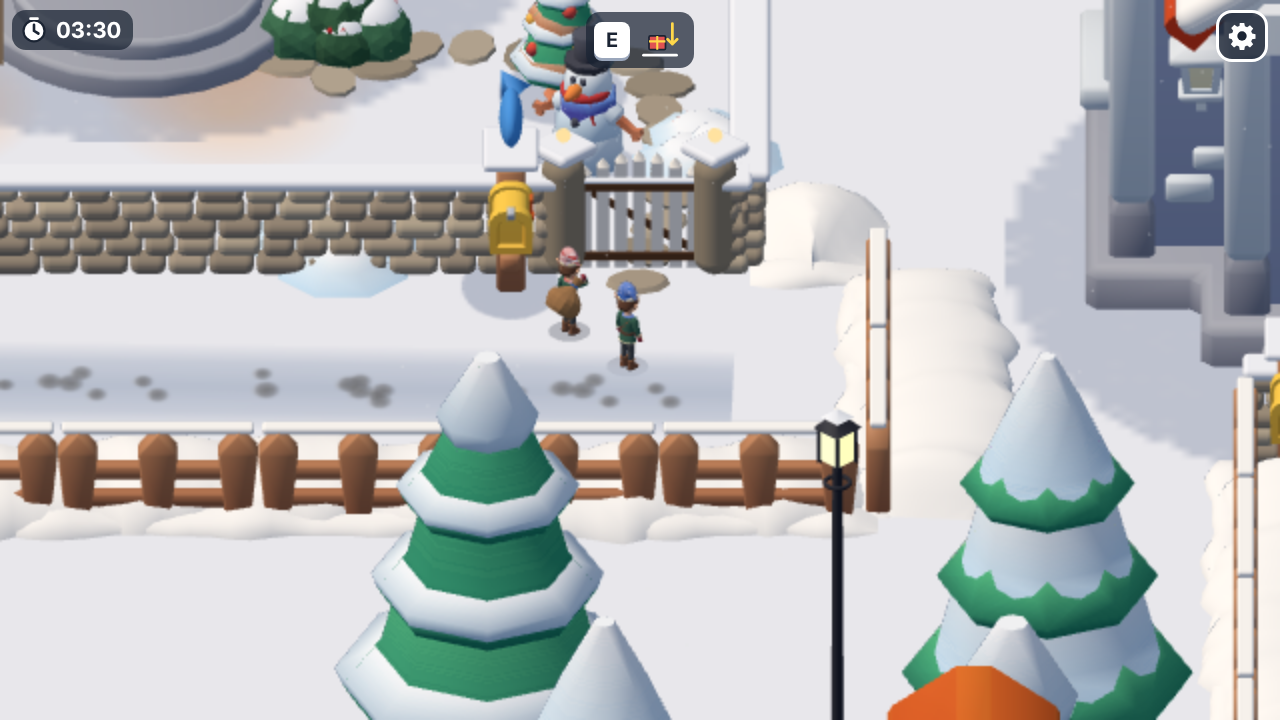
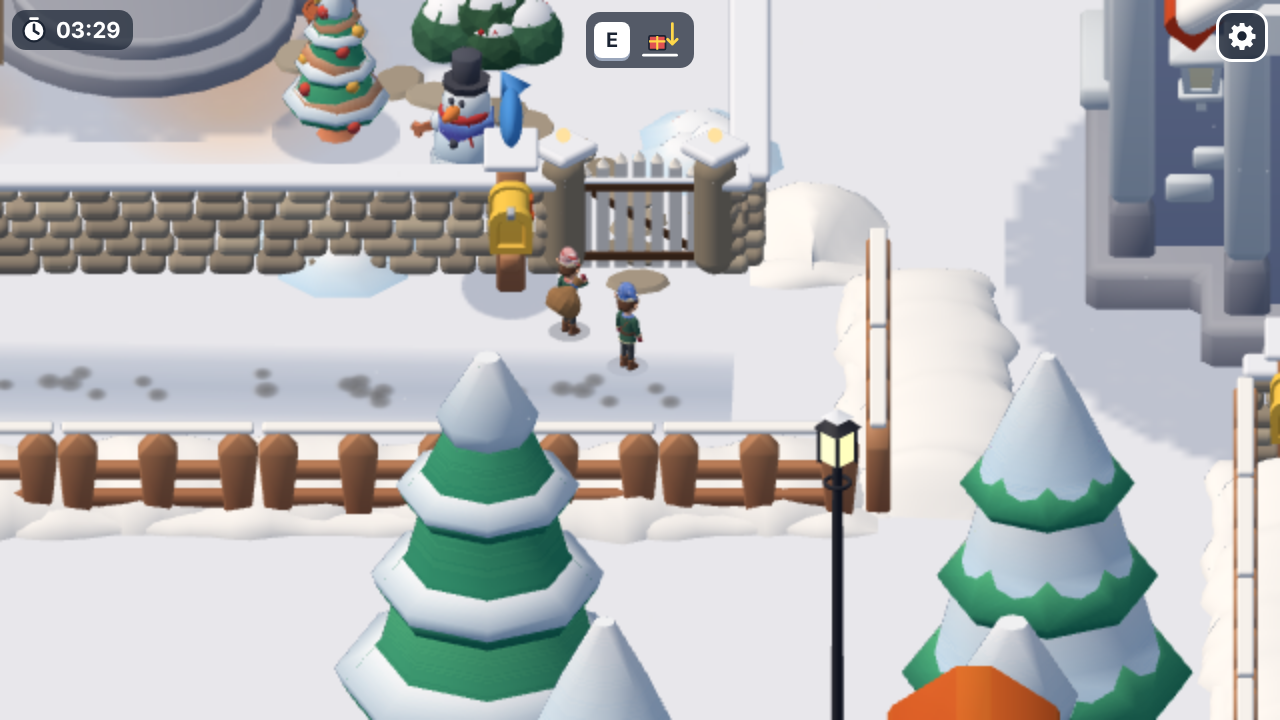
1장: 길목 비우기 — 우체통을 갈림길 울타리 앞으로, 앞마당 엄폐물을 정원길에서 떨어진 마당 안쪽으로, 정원길 곧게
Claude-Session: https://claude.ai/code/session_013wnimf1ouyZfR9DK6cFXAk

Changed region(s): [[0.1875, 0.0, 0.5625, 0.3361], [0.0625, 0.0306, 0.0938, 0.0611]]

diff --git a/src/data/chapter1.ts b/src/data/chapter1.ts
@@ -163,9 +163,9 @@ export function potOf(h: Ch1House): { s: number; t: number } {
 /** 유나 창가(돌출 창): 문 왼쪽, 사진기 쪽 앞면 */
 export const YUNA_WINDOW = { s: YUNA_S - HOUSE_HALF.d, t: -4.2, width: 3.4, sill: 2.3 * ELF_H, height: 2.6 * ELF_H };
 
-/** 길잡이: 갈림길의 빨간 우체통(골목에서 올라오면 정면), 윗길 모퉁이의 큰 트리 */
+/** 길잡이: 갈림길의 빨간 우체통(울타리 앞), 윗길 모퉁이의 큰 트리(빈 땅 안) */
 export const LANDMARKS = {
-  postBox: { s: 20.6, t: 0 },
+  postBox: { s: 21.3, t: -4.8 }, // 갈림길 위쪽 울타리 앞(골목에서 올라오면 왼쪽 앞에 보인다: "여기서 왼쪽"). 길 한가운데는 비운다
   cornerTree: { s: 30.5, t: -18.5 },
 };
 
@@ -324,35 +324,25 @@ export const CH1_SIZES = { mailbox: TOWN.mailbox, lowWall: LOW_WALL_H, fence: TO
 export const YUNA_EYE = { s: YARD.back + 0.2, t: YUNA_WINDOW.t };
 
 /**
- * 앞마당 정원길(디딤돌): 대문 → 오른쪽 담을 따라 위로 → 현관 앞에서 왼쪽으로. 길 위는 비워 둔다
- * (2026-11-28 사용자: "유나네 집 앞에 눈사람이랑 수레로 길이 막혀 있는 건 어색하다").
+ * 앞마당 정원길(디딤돌): 대문 → 현관까지 비스듬히 곧게. 길 위·길목(대문 안쪽)은 비워 둔다
+ * (2026-11-28 사용자: "유나네 집 앞에 눈사람이랑 수레로 길이 막혀 있는 건 어색하다", "위치를 길목에 두지 마").
  */
 export const GARDEN_PATH: readonly { s: number; t: number }[] = [
   { s: YARD.front - 0.4, t: 8.6 },
-  { s: 45.3, t: 9.1 },
-  { s: 48.2, t: 8.9 },
-  { s: 49.6, t: 8.6 },
-  { s: 49.9, t: 6.2 },
-  { s: 50.3, t: 5.0 },
-  { s: 49.0, t: 3.5 },
+  { s: 45.0, t: 8.4 },
+  { s: 47.6, t: 6.4 },
+  { s: 49.3, t: 3.8 },
   { s: YARD.back - 0.9, t: 1.8 },
 ];
 
-/** 숨는 자리(정원길 위)와 그 앞을 가리는 것: 엄폐물은 숨는 자리에서 창 쪽으로 (반지름 + 0.7) 떨어진 길옆에 선다 */
-const HIDES = [
-  { id: 'snowman', s: 45.3, t: 9.1, r: 0.85 }, // 유나가 만든 눈사람(대문 안 왼쪽)
-  { id: 'tree', s: 48.2, t: 8.9, r: 0.95 }, // 작은 장식 나무
-  { id: 'bush', s: 50.3, t: 5.0, r: 0.9 }, // 현관 오른쪽 둥근 덤불: 그 뒤에서 현관까지 한달음
-] as const;
-const coverFor = (h: (typeof HIDES)[number]) => {
-  const eye = { s: YARD.back + 0.2, t: -4.2 };
-  const ds = eye.s - h.s, dt = eye.t - h.t, l = Math.hypot(ds, dt);
-  return { id: h.id, s: h.s + (ds / l) * (h.r + 0.7), t: h.t + (dt / l) * (h.r + 0.7), r: h.r };
-};
-
-/** 앞마당 엄폐물(골목 좌표, 반지름): 정원길 옆 눈사람 → 장식 나무 → 덤불, 창 앞 왼쪽 장작 더미. 요정보다 크다 */
+/**
+ * 앞마당 엄폐물(골목 좌표, 반지름). 정원길에서 2 m 넘게 떨어진 마당 안쪽에 선다: 숨으려면 길에서 벗어나 그 뒤(창 반대쪽)로 간다.
+ * 눈사람(대문에서 비스듬히 안쪽) → 장식 나무(마당 가운데) → 덤불(현관 오른쪽 집 벽 밑), 창 앞 왼쪽 장작 더미. 요정보다 크다
+ */
 export const COVERS: readonly { id: 'snowman' | 'tree' | 'bush' | 'logs'; s: number; t: number; r: number }[] = [
-  ...HIDES.map(coverFor),
+  { id: 'snowman', s: 45.2, t: 5.6, r: 0.85 },
+  { id: 'tree', s: 47.2, t: 3.4, r: 0.95 },
+  { id: 'bush', s: 50.4, t: 6.0, r: 0.9 },
   // 창 앞 왼쪽 장작 더미: 그 뒤가 앞마당 안 망보는 자리(창을 정면에서 엿본다)
   { id: 'logs', s: 45.4, t: -3.6, r: 0.85 },
 ];

diff --git a/tests/unit/chapter1.test.ts b/tests/unit/chapter1.test.ts
@@ -55,6 +55,9 @@ describe('1장 공간', () => {
   });
   it('유나네는 골목 끝이 아니다: 아치에서 곧장 올라가면 우체통 갈림길에서 막힌다(유나네는 갈림길 왼쪽으로 돌아 윗길)', () => {
     expect(LANDMARKS.postBox.s).toBeGreaterThan(STREETS.M.s1);
+    // 우체통은 갈림길 한가운데가 아니라 위쪽 울타리 앞, 골목 입구 밖
+    expect(LANDMARKS.postBox.s).toBeGreaterThan(STREETS.X.s1 - 1);
+    expect(Math.abs(LANDMARKS.postBox.t)).toBeGreaterThan(LANE_HALF + 0.6);
     const yuna = gateById('yuna');
     expect(yuna.s).toBeGreaterThan(STREETS.U.s0);
     // 우편함은 모두 길(담 밖) 쪽에 있다
@@ -88,6 +91,10 @@ describe('1장 규칙', () => {
     expect(r.state.found).toBe(true);
     r = walkTo(r.state, 47, 4, 4);
     expect(r.events).not.toContain('found');
+    // 정원길을 따라 막힘 없이 현관 앞까지
+    const end = GARDEN_PATH[GARDEN_PATH.length - 1]!;
+    const g2 = walkPath(r.state, GARDEN_PATH.map((p) => [p.s, p.t] as [number, number]), 6).state;
+    expect(Math.hypot(toLane(g2.players[0]!).s - end.s, toLane(g2.players[0]!).t - end.t)).toBeLessThan(0.4);
   });
   it('가짜 집 대문(A·B·C)은 행동하면 덜컹거릴 뿐 열리지 않는다', () => {
     let s = walkPath(createChapter1(['p0', 'p1']), [[-4, 0], [8.6, 0], [8.6, -16.6]]).state;
@@ -166,7 +173,8 @@ describe('1장 망보기(04-4b)', () => {
       const a = GARDEN_PATH[i]!, b = GARDEN_PATH[i + 1]!;
       for (let k = 0; k <= 10; k++) {
         const ps = a.s + ((b.s - a.s) * k) / 10, pt = a.t + ((b.t - a.t) * k) / 10;
-        for (const c of COVERS) expect(Math.hypot(ps - c.s, pt - c.t), `${c.id} @${ps.toFixed(1)},${pt.toFixed(1)}`).toBeGreaterThan(c.r * 0.8 + 0.35);
+        // 길목에 두지 않는다: 엄폐물 가장자리에서 길까지 1 m 넘게
+        for (const c of COVERS) expect(Math.hypot(ps - c.s, pt - c.t) - c.r, `${c.id} @${ps.toFixed(1)},${pt.toFixed(1)}`).toBeGreaterThan(1.0);
       }
     }
   });

diff --git a/src/ui/mapView.ts b/src/ui/mapView.ts
@@ -82,9 +82,10 @@ export function drawJiuMap(g: CanvasRenderingContext2D, W = 400, H = 500): void 
     crayon(g, [[x - 26, y + 18], [x - 26, y - 10], [x, y - 30], [x + 26, y - 10], [x + 26, y + 18], [x - 26, y + 18]], '#9aa7c4', 5, x + y);
   }
   // 갈림길 빨간 우체통(동그란 머리)
-  fill(g, '#d23a3a', () => g.rect(fx(0) - 8, fy(21.5) - 2, 16, 22));
-  fill(g, '#d23a3a', () => g.arc(fx(0), fy(21.5) - 2, 8, Math.PI, 0));
-  crayon(g, [[fx(0) - 8, fy(21.5) + 20], [fx(0) - 8, fy(21.5) - 2], [fx(0) + 8, fy(21.5) - 2], [fx(0) + 8, fy(21.5) + 20]], '#8a1c1c', 3, 21);
+  const pbx = fx(-4.8), pby = fy(22.5);
+  fill(g, '#d23a3a', () => g.rect(pbx - 8, pby - 2, 16, 22));
+  fill(g, '#d23a3a', () => g.arc(pbx, pby - 2, 8, Math.PI, 0));
+  crayon(g, [[pbx - 8, pby + 20], [pbx - 8, pby - 2], [pbx + 8, pby - 2], [pbx + 8, pby + 20]], '#8a1c1c', 3, 21);
   // 모퉁이 큰 트리(초록 세모 셋 + 노란 별)
   const tx0 = fx(-18.5), ty0 = fy(30.5);
   for (const [w, y] of [[22, 16], [17, 4], [12, -7]] as const) fill(g, '#2f8a4a', () => {
